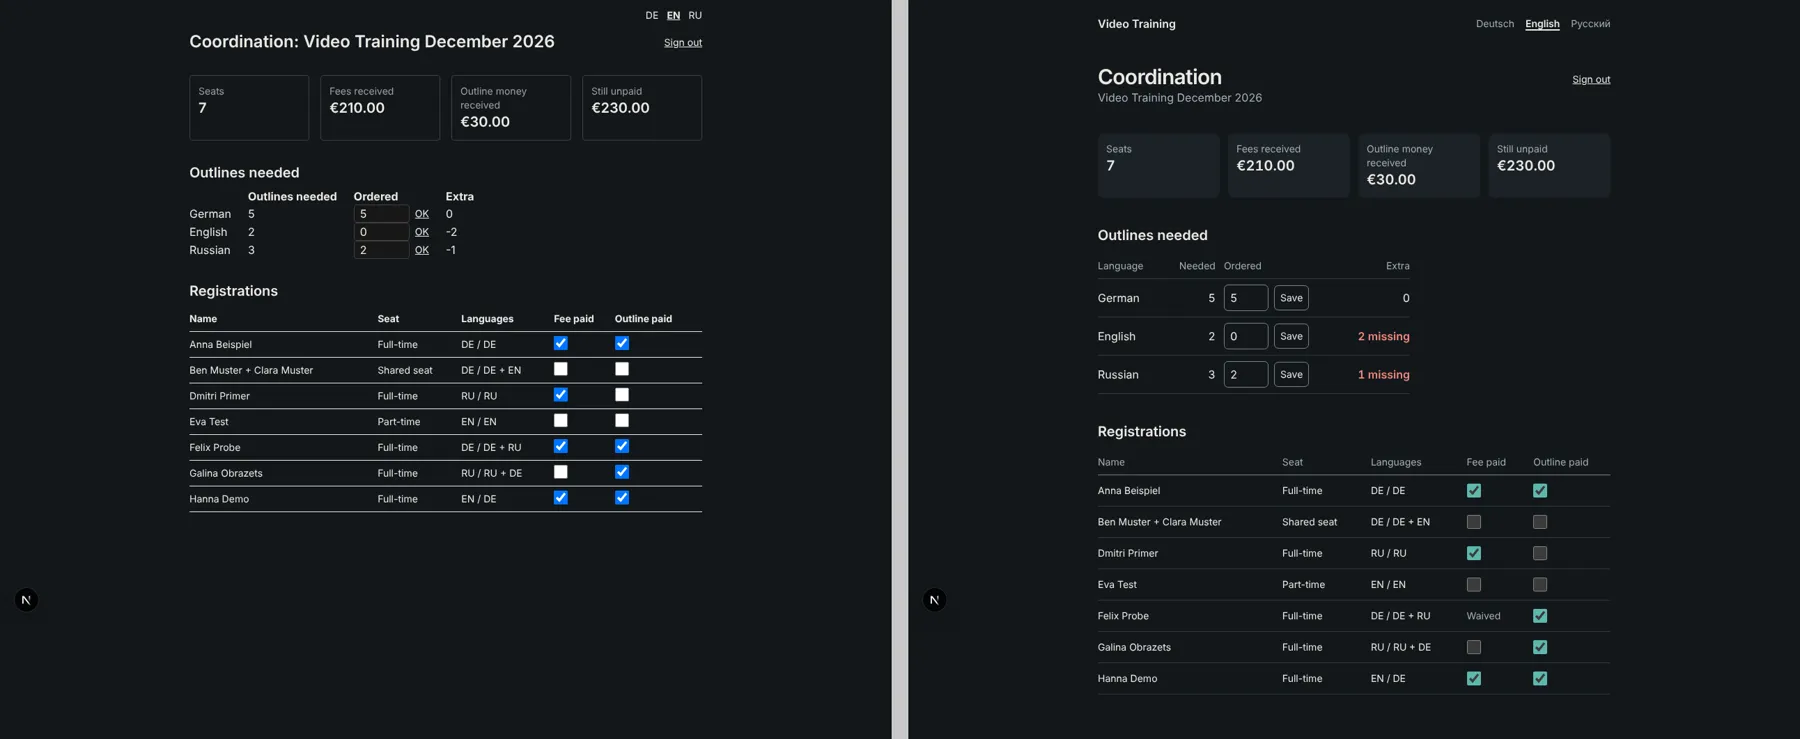
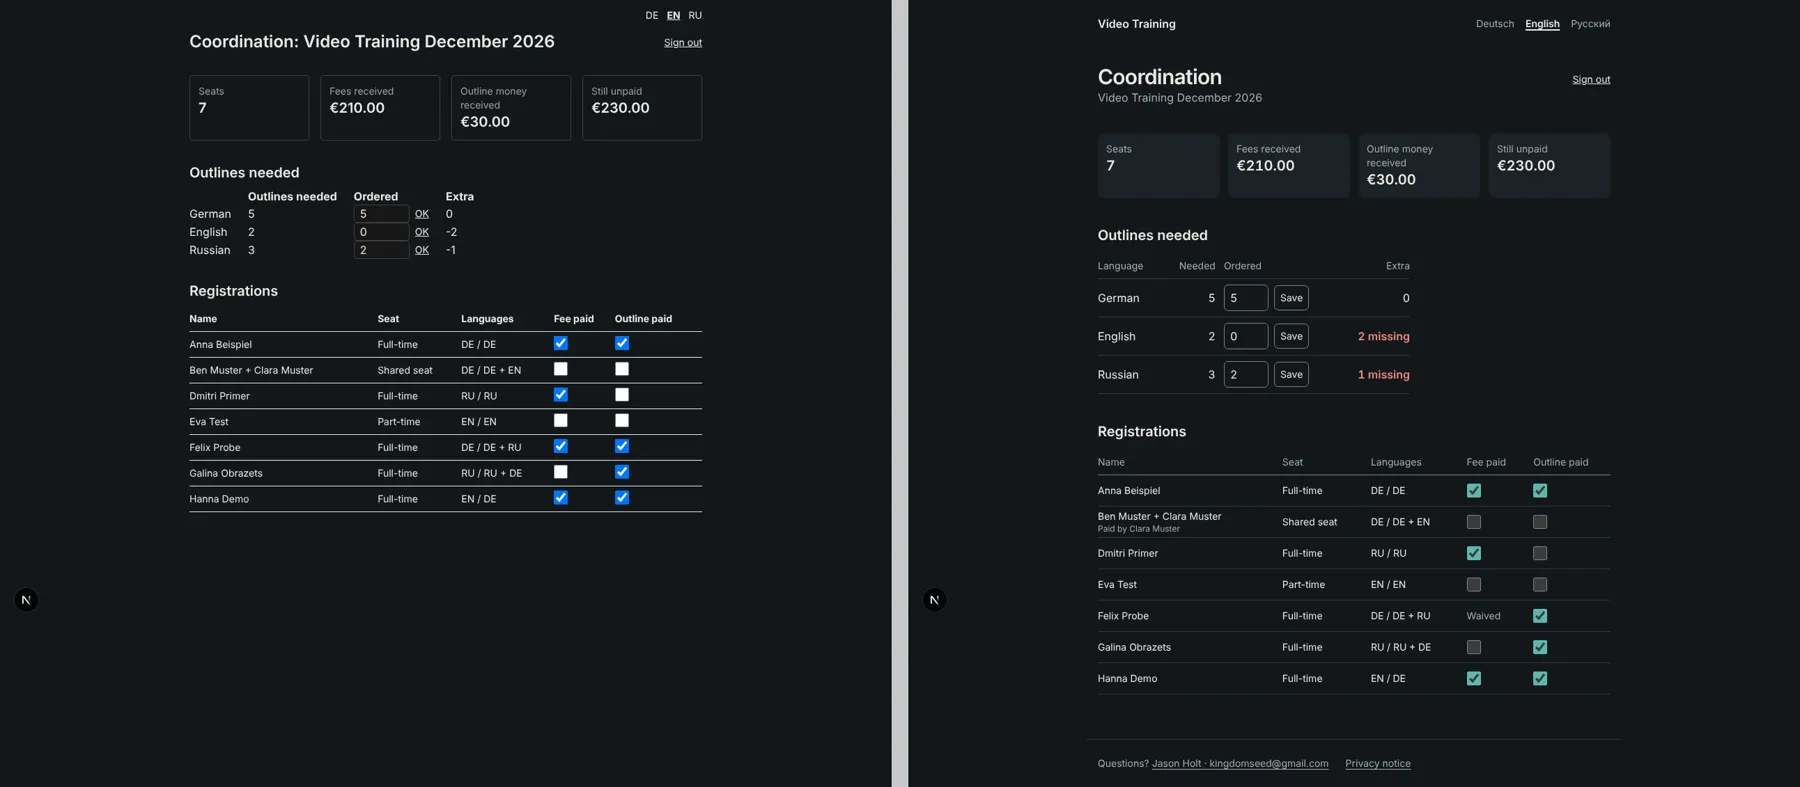
Fix review findings; add contacts, privacy notice, payer field and locality
- Skip the part-time session check when the seat is locked (edit page)
- Clear waivers and keep the previous receipt closed for the next person
- Footer contacts and a GDPR privacy notice in DE/EN/RU (CONTACTS env)
- Optional payer_name so coordinators can match transfers (migration)
- Show the training's locality on the registration form

Claude-Session: https://claude.ai/code/session_011X13JghtRhwDKDeQ8KUSpF

diff --git a/src/components/RegistrationForm.tsx b/src/components/RegistrationForm.tsx
@@ -30,6 +30,7 @@ export type RegistrationDefaults = {
   outline_language: Language;
   second_outline_language: Language | null;
   comments: string;
+  payer_name: string;
   attended_anaheim: boolean;
   ukraine_not_employed: boolean;
 };
@@ -67,7 +68,10 @@ export function RegistrationForm(props: Props) {
   const [ukraine, setUkraine] = useState(d?.ukraine_not_employed ?? false);
   const [sessionsMissing, setSessionsMissing] = useState(false);
   const [formKey, setFormKey] = useState(0);
-  const [receiptDismissed, setReceiptDismissed] = useState(false);
+  // The result whose receipt was closed with "Register another person". A new
+  // submission yields a new state object, so its receipt shows again only once
+  // that submission has actually succeeded.
+  const [dismissedResult, setDismissedResult] = useState<State | null>(null);
   const statusRef = useRef<HTMLParagraphElement>(null);
 
   // "done" is shown as the receipt below, not as a banner.
@@ -95,17 +99,18 @@ export function RegistrationForm(props: Props) {
   function onSubmit(e: FormEvent<HTMLFormElement>) {
     e.preventDefault();
     const form = new FormData(e.currentTarget);
-    if (seatType === "part_time" && form.getAll("session_ids").length === 0) {
+    // A locked seat keeps its stored sessions (the server restores them), and
+    // its disabled checkboxes are not sent, so only check editable selections.
+    if (!props.seatLocked && seatType === "part_time" && form.getAll("session_ids").length === 0) {
       setSessionsMissing(true);
       e.currentTarget.querySelector<HTMLInputElement>('input[name="session_ids"]')?.focus();
       return;
     }
     setSessionsMissing(false);
-    setReceiptDismissed(false);
     startTransition(() => formAction(form));
   }
 
-  if (state.status === "done" && !receiptDismissed) {
+  if (state.status === "done" && state !== dismissedResult) {
     return (
       <section
         ref={(el) => el?.focus()}
@@ -124,7 +129,11 @@ export function RegistrationForm(props: Props) {
         <button
           type="button"
           onClick={() => {
-            setReceiptDismissed(true);
+            setDismissedResult(state);
+            // Waivers belong to the person just registered; seat type and
+            // languages often carry over within a family, so they stay.
+            setAnaheim(false);
+            setUkraine(false);
             setFormKey((k) => k + 1);
           }}
           className="font-semibold underline"
@@ -273,6 +282,11 @@ export function RegistrationForm(props: Props) {
         </dl>
         <p className="mt-4 text-sm text-muted">{t("payHint")}</p>
         <TransferDetails payment={props.payment} />
+        <label className="mt-4 block">
+          {t("payerName")} <span className="text-sm text-muted">({t("optional")})</span>
+          <span className="block text-sm text-muted">{t("payerNameHelp")}</span>
+          <input name="payer_name" defaultValue={d?.payer_name} autoComplete="off" className={fieldClass} />
+        </label>
       </section>
 
       <Section legend={t("sectionConfirm")}>

diff --git a/src/app/[locale]/coordinator/page.tsx b/src/app/[locale]/coordinator/page.tsx
@@ -23,6 +23,7 @@ type Row = {
   attended_anaheim: boolean;
   ukraine_not_employed: boolean;
   waiver: string | null;
+  payer_name: string;
   fee_paid: boolean;
   outline_paid: boolean;
 };
@@ -48,7 +49,7 @@ export default async function CoordinatorPage({ params }: PageProps<"/[locale]/c
     supabase
       .from("registrations")
       .select(
-        "id, seat_type, first_name, last_name, partner_first_name, partner_last_name, group_language, outline_language, second_outline_language, attended_anaheim, ukraine_not_employed, waiver, fee_paid, outline_paid",
+        "id, seat_type, first_name, last_name, partner_first_name, partner_last_name, group_language, outline_language, second_outline_language, attended_anaheim, ukraine_not_employed, waiver, payer_name, fee_paid, outline_paid",
       )
       .eq("training_id", training.id)
       .eq("status", "active")
@@ -196,6 +197,7 @@ export default async function CoordinatorPage({ params }: PageProps<"/[locale]/c
           {list.map((row) => (
             <li key={row.r.id} className="py-3">
               <p className="font-semibold">{row.name}</p>
+              {row.r.payer_name && <p className="text-sm">{t("payer", { name: row.r.payer_name })}</p>}
               <p className="text-sm text-muted">
                 {t(`seatShort.${row.r.seat_type}`)} · {row.langs}
               </p>
@@ -221,7 +223,12 @@ export default async function CoordinatorPage({ params }: PageProps<"/[locale]/c
             <tbody>
               {list.map((row) => (
                 <tr key={row.r.id} className="border-b border-line">
-                  <th scope="row" className="py-1 pr-3 font-normal">{row.name}</th>
+                  <th scope="row" className="py-1 pr-3 font-normal">
+                    {row.name}
+                    {row.r.payer_name && (
+                      <span className="block text-xs text-muted">{t("payer", { name: row.r.payer_name })}</span>
+                    )}
+                  </th>
                   <td className="pr-3">{t(`seatShort.${row.r.seat_type}`)}</td>
                   <td className="pr-3 tabular-nums">{row.langs}</td>
                   <td className="pr-3">{feeToggle(row)}</td>

diff --git a/src/app/[locale]/privacy/page.tsx b/src/app/[locale]/privacy/page.tsx
@@ -1,0 +1,52 @@
+import { getTranslations, setRequestLocale } from "next-intl/server";
+import { siteContacts } from "@/lib/site";
+
+const sections = ["data", "purpose", "basis", "recipients", "retention", "rights", "complaint"] as const;
+
+export async function generateMetadata({ params }: PageProps<"/[locale]/privacy">) {
+  const { locale } = await params;
+  const t = await getTranslations({ locale, namespace: "privacy" });
+  return { title: t("title") };
+}
+
+export default async function PrivacyPage({ params }: PageProps<"/[locale]/privacy">) {
+  const { locale } = await params;
+  setRequestLocale(locale);
+  const t = await getTranslations("privacy");
+  const contacts = siteContacts();
+
+  return (
+    <article className="max-w-prose space-y-8">
+      <div className="space-y-3">
+        <h1 className="text-3xl font-semibold tracking-tight">{t("title")}</h1>
+        <p>{t("intro")}</p>
+      </div>
+      <section className="space-y-1">
+        <h2 className="text-xl font-semibold">{t("controllerTitle")}</h2>
+        {contacts.length > 0 ? (
+          <>
+            <ul>
+              {contacts.map((c) => (
+                <li key={c.email}>
+                  {c.name},{" "}
+                  <a href={`mailto:${c.email}`} className="underline">
+                    {c.email}
+                  </a>
+                </li>
+              ))}
+            </ul>
+            <p>{t("controllerBody")}</p>
+          </>
+        ) : (
+          <p>{t("noContact")}</p>
+        )}
+      </section>
+      {sections.map((s) => (
+        <section key={s} className="space-y-1">
+          <h2 className="text-xl font-semibold">{t(`${s}Title`)}</h2>
+          <p>{t(`${s}Body`)}</p>
+        </section>
+      ))}
+    </article>
+  );
+}

diff --git a/src/app/[locale]/layout.tsx b/src/app/[locale]/layout.tsx
@@ -5,6 +5,7 @@ import { getTranslations, setRequestLocale } from "next-intl/server";
 import { routing } from "@/i18n/routing";
 import { LanguageSwitcher } from "@/components/LanguageSwitcher";
 import { Link } from "@/i18n/navigation";
+import { siteContacts } from "@/lib/site";
 import "../globals.css";
 
 export function generateStaticParams() {
@@ -22,6 +23,7 @@ export default async function LocaleLayout({ children, params }: LayoutProps<"/[
   if (!hasLocale(routing.locales, locale)) notFound();
   setRequestLocale(locale);
   const t = await getTranslations({ locale, namespace: "common" });
+  const contacts = siteContacts();
 
   return (
     <html lang={locale}>
@@ -34,6 +36,24 @@ export default async function LocaleLayout({ children, params }: LayoutProps<"/[
             <LanguageSwitcher label={t("languageNav")} />
           </header>
           <main className="mx-auto max-w-3xl px-4 pt-6 pb-16">{children}</main>
+          <footer className="mx-auto flex max-w-3xl flex-wrap gap-x-6 gap-y-1 border-t border-line px-4 py-6 text-sm text-muted">
+            {contacts.length > 0 && (
+              <p>
+                {t("questions")}{" "}
+                {contacts.map((c, i) => (
+                  <span key={c.email}>
+                    {i > 0 && ", "}
+                    <a href={`mailto:${c.email}`} className="underline">
+                      {c.name}
+                    </a>
+                  </span>
+                ))}
+              </p>
+            )}
+            <Link href="/privacy" className="underline">
+              {t("privacy")}
+            </Link>
+          </footer>
         </NextIntlClientProvider>
       </body>
     </html>

diff --git a/src/lib/registrations.ts b/src/lib/registrations.ts
@@ -20,6 +20,7 @@ export const registrationSchema = z
     outline_language: language,
     second_outline_language: language.nullable(),
     comments: z.string().trim().max(2000).default(""),
+    payer_name: z.string().trim().max(200).default(""),
     attended_anaheim: z.boolean(),
     ukraine_not_employed: z.boolean(),
     confirmed_adult: z.literal(true),
@@ -56,6 +57,7 @@ export function parseRegistrationForm(form: FormData) {
     outline_language: text("outline_language"),
     second_outline_language: text("second_outline_language") || null,
     comments: text("comments"),
+    payer_name: text("payer_name"),
     attended_anaheim: form.get("attended_anaheim") === "on",
     ukraine_not_employed: form.get("ukraine_not_employed") === "on",
     confirmed_adult: form.get("confirmed_adult") === "on",

diff --git a/src/lib/data.ts b/src/lib/data.ts
@@ -11,13 +11,14 @@ export type Training = {
   payee_name: string;
   payee_iban: string;
   payment_reference: string;
+  venue: string;
   rules: Partial<Record<Language, string>>;
 };
 
 export type TrainingWithSessions = Training & { sessions: Session[] };
 
 const TRAINING_COLUMNS =
-  "id, slug, title, fee_cents, outline_price_cents, payee_name, payee_iban, payment_reference, rules, sessions(id, message_number, starts_at, ends_at)";
+  "id, slug, title, fee_cents, outline_price_cents, payee_name, payee_iban, payment_reference, venue, rules, sessions(id, message_number, starts_at, ends_at)";
 
 // The training currently open for registration: the published one whose
 // schedule starts last. Coordinators publish one training at a time.

diff --git a/src/app/[locale]/register/page.tsx b/src/app/[locale]/register/page.tsx
@@ -20,7 +20,10 @@ export default async function RegisterPage({ params }: PageProps<"/[locale]/regi
 
   return (
     <div className="space-y-8">
-      <h1 className="text-3xl font-semibold tracking-tight text-balance">{t("title", { training: training.title[locale] })}</h1>
+      <div className="space-y-1">
+        <h1 className="text-3xl font-semibold tracking-tight text-balance">{t("title", { training: training.title[locale] })}</h1>
+        {training.venue && <p className="text-lg text-muted">{t("locality", { locality: training.venue })}</p>}
+      </div>
       <RegistrationForm
         sessions={training.sessions.map((s) => ({
           id: s.id,

diff --git a/src/lib/site.ts b/src/lib/site.ts
@@ -1,0 +1,14 @@
+import "server-only";
+
+export type Contact = { name: string; email: string };
+
+// People participants contact with questions, shown in the footer and on the
+// privacy page. Each hosting church sets its own, as
+// CONTACTS="Name <email>; Name <email>".
+export function siteContacts(): Contact[] {
+  return (process.env.CONTACTS ?? "")
+    .split(";")
+    .map((entry) => /^\s*(.+?)\s*<\s*([^<>\s]+@[^<>\s]+)\s*>\s*$/.exec(entry))
+    .filter((m): m is RegExpExecArray => m !== null)
+    .map((m) => ({ name: m[1], email: m[2] }));
+}

diff --git a/src/app/[locale]/r/[token]/page.tsx b/src/app/[locale]/r/[token]/page.tsx
@@ -57,6 +57,7 @@ export default async function EditPage({ params }: PageProps<"/[locale]/r/[token
           outline_language: reg.outline_language,
           second_outline_language: reg.second_outline_language,
           comments: reg.comments,
+          payer_name: reg.payer_name,
           attended_anaheim: reg.attended_anaheim,
           ukraine_not_employed: reg.ukraine_not_employed,
         }}

diff --git a/docs/design/impeccable-2026-11/README.md b/docs/design/impeccable-2026-11/README.md
@@ -21,14 +21,13 @@ The first [Impeccable](https://github.com/pbakaus/impeccable) pass over the plat
 | The form was one flat list of about 17 controls. The rules were collapsed directly above "I have read the rules". | P2 | The form is now grouped into sections (seat, about you, languages, free seat, payment, rules). The rules are shown in full, optional fields are marked, and `autocomplete` is set. Radios and checkboxes are 20px with 44px rows. |
 | The language switcher showed "DE EN RU" at 19×20px. | P3 | Each language is now named in itself ("Deutsch · English · Русский"), with `lang` and `hreflang` set and 44px targets. The header shows the app name, linking home. |
 
-## Open product questions (not changed)
+## Follow-ups from Jason (2 Nov 2026)
 
-These need a decision or content from the team. The code does not guess at them.
-
-1. **Contact and legal links.** The "contact the coordinators" messages give no contact. The privacy notice and Impressum links required by `business-requirements.md` are not rendered yet, because the pages do not exist.
-2. **Payment reference per person.** Every registrant uses the same reference, so coordinators cannot match a bank transfer to a registration. One option is to add the last name to the reference.
-3. **Who runs it.** No church or city name appears anywhere. People are asked to send money to an IBAN, so a name and a contact would build trust.
-4. **Translation review.** The new German and Russian strings were written by Claude and should be read by a native speaker.
+- **Contact people.** The footer and the privacy page list everyone in `CONTACTS` (`"Name <email>; Name <email>"`).
+- **Privacy notice.** A typical GDPR notice, in German, English and Russian, at `/[locale]/privacy`. It is a template, not legal advice, and should be reviewed before launch. There is no Impressum yet, because it would need a postal address.
+- **Who pays.** An optional "Who sends the bank transfer?" field (`payer_name`, added by a migration) appears on the form. Coordinators see "Paid by …" in their list.
+- **Locality.** The form shows the training's locality (`trainings.venue`). The church's name stays out of the public pages.
+- **Translation review.** The new German and Russian strings still need a check by a native speaker.
 
 ## Next Impeccable steps
 
@@ -38,6 +37,8 @@ These need a decision or content from the team. The code does not guess at them.
 
 ![Register, desktop](register-en-desktop.webp)
 ![Register, phone](register-en-mobile.webp)
+![Receipt after registering](receipt-en-desktop.webp)
+![Privacy notice, German, phone](privacy-de-mobile.webp)
 ![Register, dark](register-en-desktop-dark.webp)
 ![Coordinator, phone](coordinator-en-mobile.webp)
 ![Coordinator, dark](coordinator-en-desktop-dark.webp)
